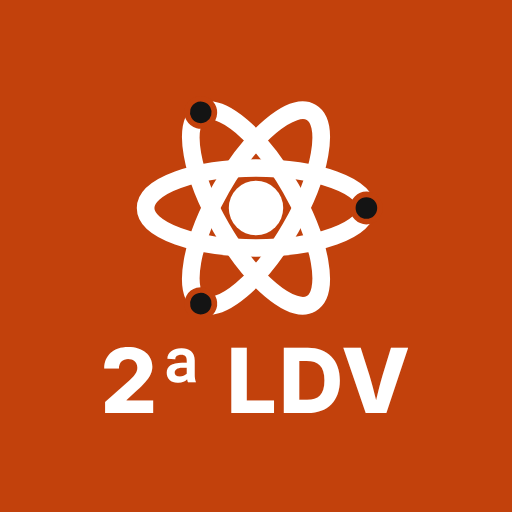
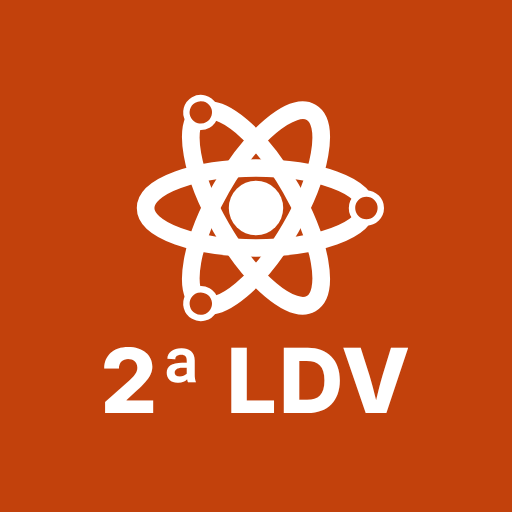
Ícone: sem preto, elétrons com borda branca e miolo laranja
Claude-Session: https://claude.ai/code/session_012uLHvynPz3mb7cEqoXR3dP

Changed region(s): [[0.3438, 0.5625, 0.4375, 0.625], [0.3438, 0.1875, 0.4375, 0.25], [0.6875, 0.375, 0.75, 0.4375]]

diff --git a/sw.js b/sw.js
@@ -1,6 +1,6 @@
 /* Funciona sem internet: guarda o app no celular.
    Ao publicar uma versão nova, mude o número em VERSAO. */
-const VERSAO = 'fisica2ldv-v26';
+const VERSAO = 'fisica2ldv-v27';
 const BASE = ['./', './index.html', './manifest.webmanifest', './icons/icon-192.png', './icons/icon-512.png', './icons/maskable-512.png', './icons/apple-touch-icon.png', './icons/favicon.png'];
 
 self.addEventListener('install', e => {
